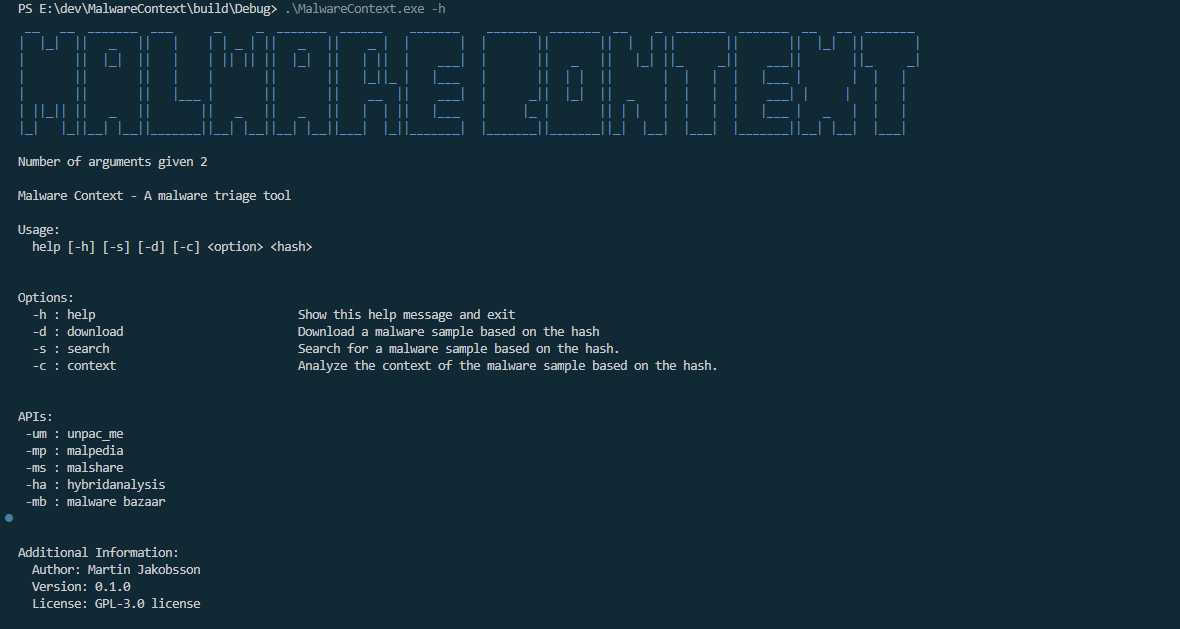
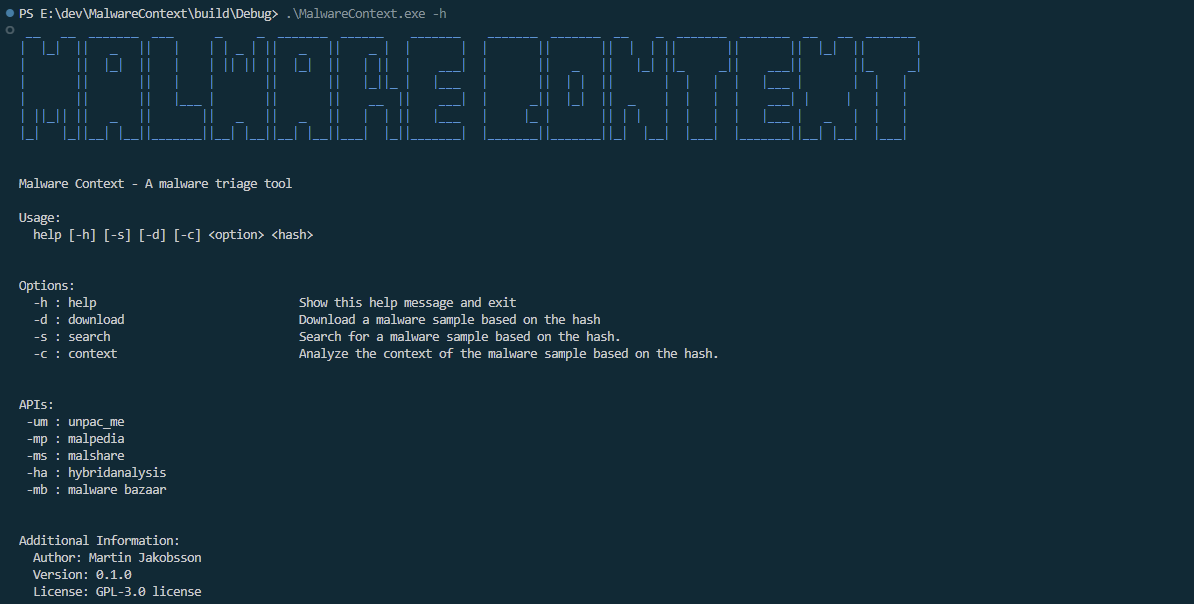
asd

diff --git a/src/main.c b/src/main.c
@@ -41,7 +41,7 @@ int main(int argc, char *argv[]) {
         return 1;
     };
 
-    printf("Number of arguments given %d\n", argc);
+    //printf("Number of arguments given %d\n", argc);
 
     if (strcmp(argv[1], "-first_seen_db") == 0) {
         char* api_key = get_api_key_value("malwarebazaar");
